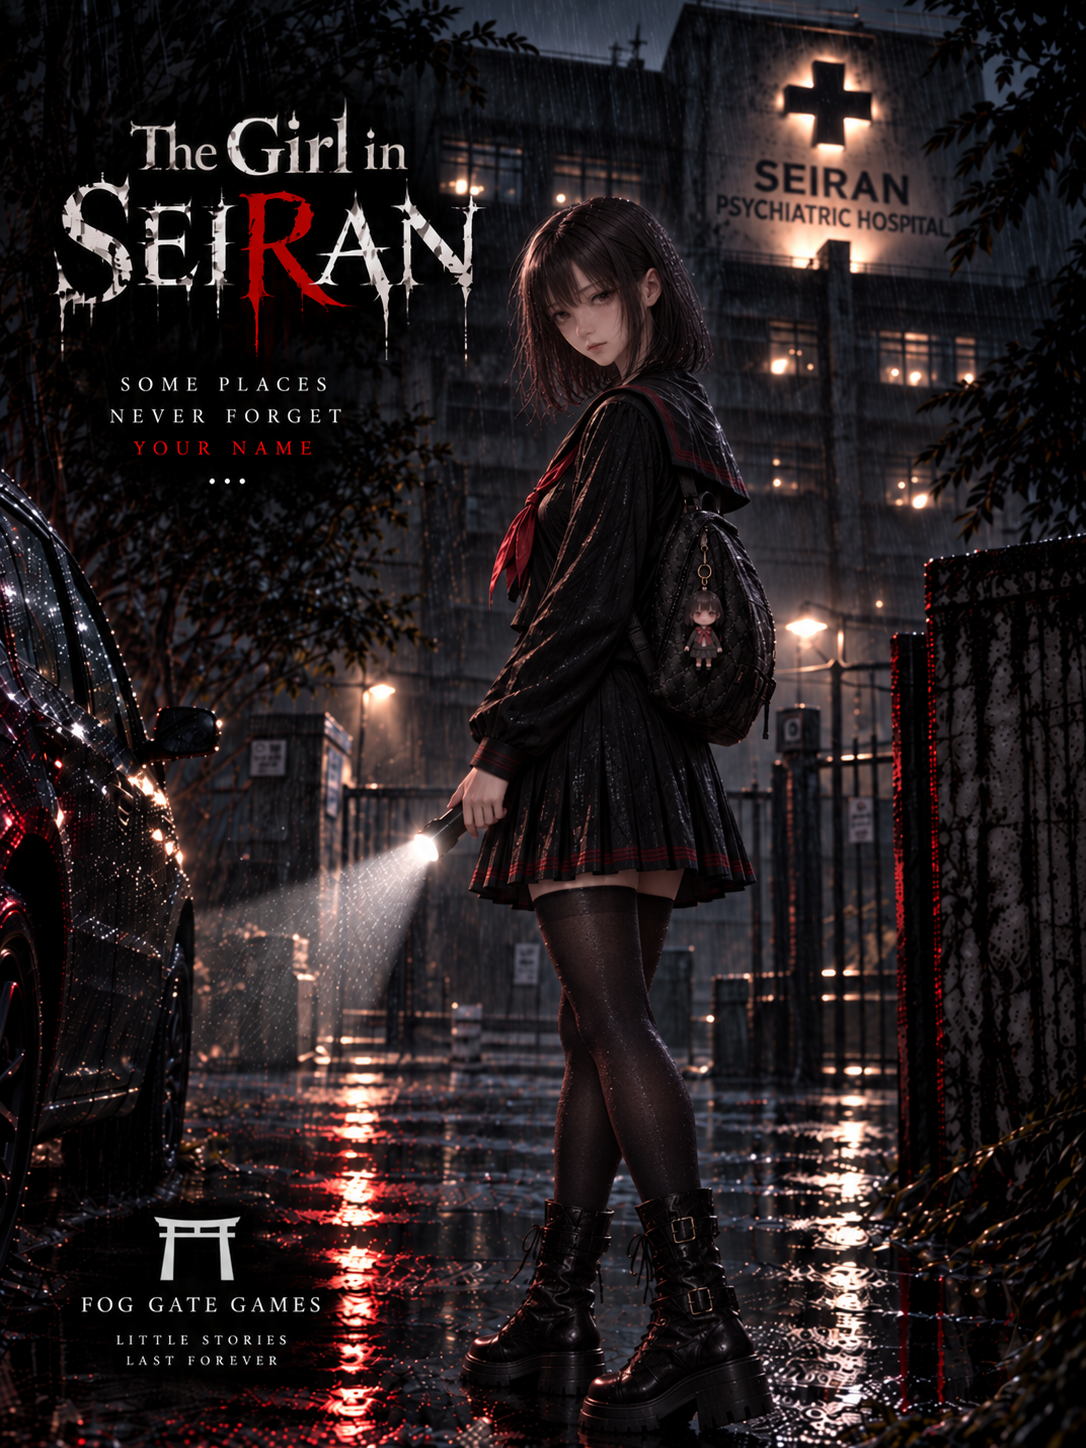
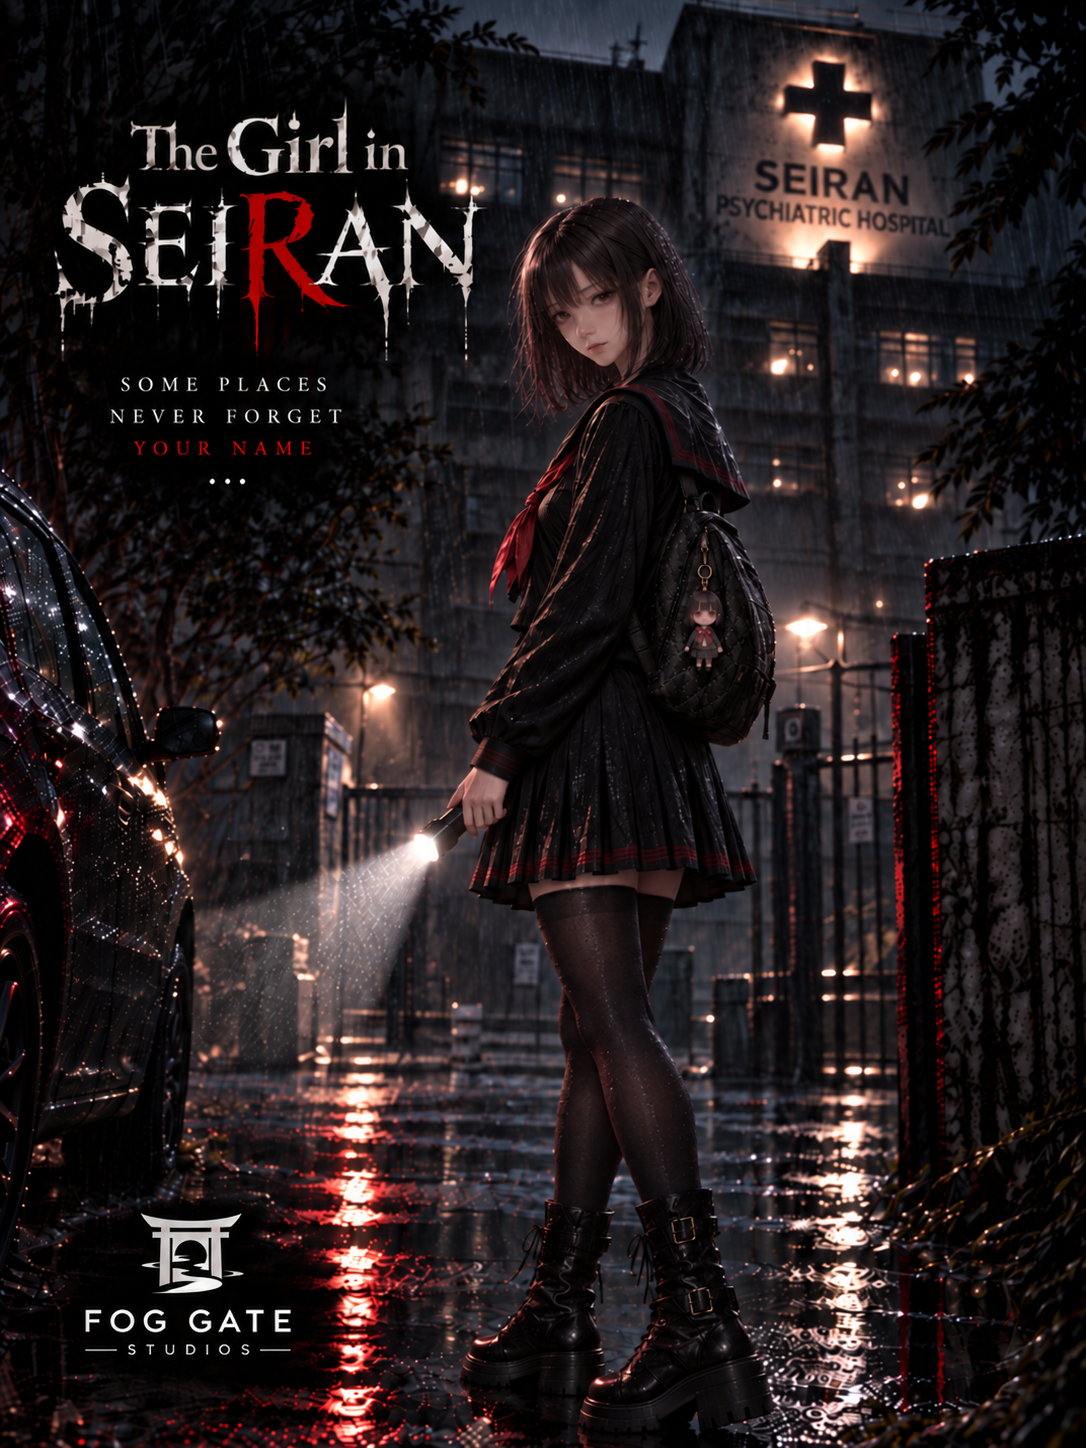
feat: update website branding to Fog Gate Studios

diff --git a/index.html b/index.html
@@ -4,9 +4,9 @@
   <meta charset="utf-8" />
   <meta name="viewport" content="width=device-width, initial-scale=1" />
   <meta name="theme-color" content="#08090c" />
-  <meta name="description" content="Fog Gate Games is an independent game studio creating atmospheric, story-driven experiences with strong visual identity and memorable characters." />
-  <title>Fog Gate Games — Independent Game Studio</title>
-  <link rel="icon" href="assets/fog-gate-games-logo.png" />
+  <meta name="description" content="Fog Gate Studios is an independent game studio creating atmospheric, story-driven experiences with strong visual identity and memorable characters." />
+  <title>Fog Gate Studios — Independent Game Studio</title>
+  <link rel="icon" href="assets/fog-gate-studios-logo.png" />
   <link rel="preconnect" href="https://fonts.googleapis.com" />
   <link rel="preconnect" href="https://fonts.gstatic.com" crossorigin />
   <link href="https://fonts.googleapis.com/css2?family=Inter:wght@400;500;600;700&family=Noto+Sans+JP:wght@400;500;600;700&family=Space+Grotesk:wght@500;600;700&display=swap" rel="stylesheet" />
@@ -15,9 +15,9 @@
 </head>
 <body>
   <header class="site-header">
-    <a class="brand" href="#home" aria-label="Fog Gate Games home">
-      <img src="assets/fog-gate-games-logo.png" alt="Fog Gate Games logo" />
-      <span class="brand-copy"><strong>Fog Gate Games</strong><small>Independent Game Studio</small></span>
+    <a class="brand" href="#home" aria-label="Fog Gate Studios home">
+      <img src="assets/fog-gate-studios-logo.png" alt="Fog Gate Studios logo" />
+      <span class="brand-copy"><strong>Fog Gate Studios</strong><small>Independent Game Studio</small></span>
     </a>
     <button class="menu-toggle" type="button" aria-expanded="false" aria-label="Open menu"><span></span><span></span></button>
     <nav class="nav" aria-label="Main navigation">
@@ -46,22 +46,22 @@
       <div class="hero-atmosphere" aria-hidden="true"></div>
       <div class="hero section-shell hero-clean">
         <div class="hero-copy reveal">
-          <p class="hero-overline">FOG GATE GAMES · INDEPENDENT STUDIO</p>
+          <p class="hero-overline">FOG GATE STUDIOS · INDEPENDENT STUDIO</p>
           <h1>We build worlds<br /><span>worth remembering.</span></h1>
           <p class="hero-text">Atmospheric, story-driven games shaped by strong visual identity, meaningful characters and the quiet details that stay with you.</p>
           <div class="hero-actions">
             <a class="button primary" href="#studio">Meet the studio <span>→</span></a>
             <a class="button ghost" href="#vision">Our vision</a>
           </div>
-          <div class="hero-signature"><span>STORY · ATMOSPHERE · CHARACTER</span><span>FOG GATE GAMES</span></div>
+          <div class="hero-signature"><span>STORY · ATMOSPHERE · CHARACTER</span><span>FOG GATE STUDIOS</span></div>
         </div>
         <div class="hero-studio-mark reveal" aria-hidden="true">
           <div class="studio-orbit orbit-a"></div>
           <div class="studio-orbit orbit-b"></div>
           <div class="studio-mark-card">
             <span class="studio-mark-code">FGG · STUDIO</span>
-            <img src="assets/fog-gate-games-logo.png" alt="" />
-            <div class="studio-mark-caption"><strong>FOG GATE GAMES</strong><span>Independent Game Studio</span></div>
+            <img src="assets/fog-gate-studios-logo.png" alt="" />
+            <div class="studio-mark-caption"><strong>FOG GATE STUDIOS</strong><span>Independent Game Studio</span></div>
           </div>
           <p class="studio-mark-note">BEYOND THE FAMILIAR</p>
         </div>
@@ -102,7 +102,7 @@
         <article class="game-showcase reveal">
           <div class="game-art"><img src="assets/the-girl-in-seiran-cover.png" alt="The Girl in Seiran official cover" /><span class="status"><i></i> In development</span></div>
           <div class="game-content">
-            <p class="game-kicker">FOG GATE GAMES · DEBUT TITLE</p>
+            <p class="game-kicker">FOG GATE STUDIOS · DEBUT TITLE</p>
             <h3>The Girl<br />in Seiran</h3>
             <p class="game-tagline">“Some memories should stay buried.”</p>
             <p class="game-description">A dark narrative journey surrounding Seiran Hospital. Aoi is drawn through memory, fear and a mystery that refuses to remain buried, in a world where what is remembered may be just as dangerous as what was forgotten.</p>
@@ -115,8 +115,8 @@
     <section id="vision" class="vision section-pad">
       <div class="section-shell">
         <div class="vision-panel reveal">
-          <div class="vision-mark"><img src="assets/fog-gate-games-logo.png" alt="" /></div>
-          <div class="vision-copy"><p class="eyebrow">03 · Our vision</p><blockquote>We want to create worlds players remember for how they made them feel.</blockquote><p>Fog Gate Games is being built around a simple idea: strong atmosphere, meaningful characters and creative independence can make even a small studio feel unforgettable.</p></div>
+          <div class="vision-mark"><img src="assets/fog-gate-studios-logo.png" alt="" /></div>
+          <div class="vision-copy"><p class="eyebrow">03 · Our vision</p><blockquote>We want to create worlds players remember for how they made them feel.</blockquote><p>Fog Gate Studios is being built around a simple idea: strong atmosphere, meaningful characters and creative independence can make even a small studio feel unforgettable.</p></div>
         </div>
       </div>
     </section>
@@ -130,8 +130,8 @@
   </main>
 
   <footer class="footer section-shell">
-    <div class="footer-brand"><img src="assets/fog-gate-games-logo.png" alt="" /><div><strong>Fog Gate Games</strong><span>Independent Game Studio</span></div></div>
-    <p>© <span id="year"></span> Fog Gate Games. All rights reserved.</p>
+    <div class="footer-brand"><img src="assets/fog-gate-studios-logo.png" alt="" /><div><strong>Fog Gate Studios</strong><span>Independent Game Studio</span></div></div>
+    <p>© <span id="year"></span> Fog Gate Studios. All rights reserved.</p>
     <a href="#home" class="footer-top">TOP ↑</a>
   </footer>
 

diff --git a/seiran.html b/seiran.html
@@ -4,9 +4,9 @@
   <meta charset="utf-8" />
   <meta name="viewport" content="width=device-width, initial-scale=1" />
   <meta name="theme-color" content="#050608" />
-  <meta name="description" content="Enter the world of The Girl in Seiran — an atmospheric preview from Fog Gate Games." />
-  <title>Enter Seiran | Fog Gate Games</title>
-  <link rel="icon" href="assets/fog-gate-games-logo.png" />
+  <meta name="description" content="Enter the world of The Girl in Seiran — an atmospheric preview from Fog Gate Studios." />
+  <title>Enter Seiran | Fog Gate Studios</title>
+  <link rel="icon" href="assets/fog-gate-studios-logo.png" />
   <link rel="preconnect" href="https://fonts.googleapis.com" />
   <link rel="preconnect" href="https://fonts.gstatic.com" crossorigin />
   <link href="https://fonts.googleapis.com/css2?family=Inter:wght@400;500;600;700&family=Noto+Sans+JP:wght@400;500;600;700&family=Space+Grotesk:wght@500;600;700&display=swap" rel="stylesheet" />
@@ -18,7 +18,7 @@
   <div class="fog fog-b" aria-hidden="true"></div>
   <div class="noise" aria-hidden="true"></div>
   <header class="archive-header">
-    <a class="archive-brand" href="index.html"><img src="assets/fog-gate-games-logo.png" alt="Fog Gate Games logo" /><span><strong>Fog Gate Games</strong><small>Seiran Archive</small></span></a>
+    <a class="archive-brand" href="index.html"><img src="assets/fog-gate-studios-logo.png" alt="Fog Gate Studios logo" /><span><strong>Fog Gate Studios</strong><small>Seiran Archive</small></span></a>
     <div class="archive-status"><i></i><span>Public preview</span></div>
     <div class="archive-actions">
       <div class="language-switcher">
@@ -101,7 +101,7 @@
 
   </main>
 
-  <div class="entry-curtain" aria-hidden="true"><div class="curtain-mark"><span>FOG GATE GAMES</span><strong>ENTERING SEIRAN</strong></div></div>
+  <div class="entry-curtain" aria-hidden="true"><div class="curtain-mark"><span>FOG GATE STUDIOS</span><strong>ENTERING SEIRAN</strong></div></div>
   <script src="i18n-ja.js"></script>
   <script src="i18n.js"></script>
   <script src="seiran.js"></script>

diff --git a/README.md b/README.md
@@ -1,6 +1,6 @@
-# Fog Gate Games
+# Fog Gate Studios
 
-Official website for **Fog Gate Games**, an independent game studio focused on atmospheric, story-driven experiences.
+Official website for **Fog Gate Studios**, an independent game studio focused on atmospheric, story-driven experiences.
 
 ## Current project
 
@@ -8,4 +8,4 @@ Official website for **Fog Gate Games**, an independent game studio focused on a
 
 ## Website
 
-This repository is intended to power the official Fog Gate Games GitHub Pages site.
+This repository is intended to power the official Fog Gate Studios GitHub Pages site.
